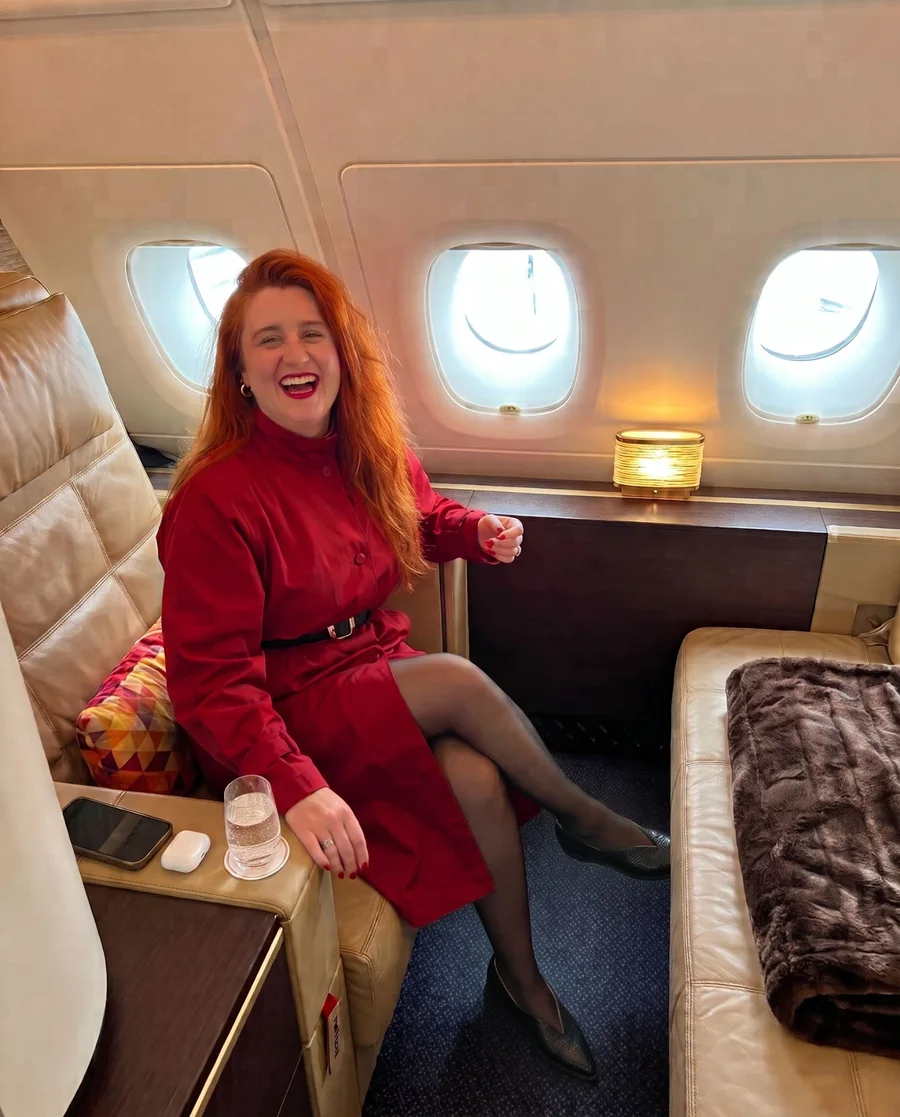
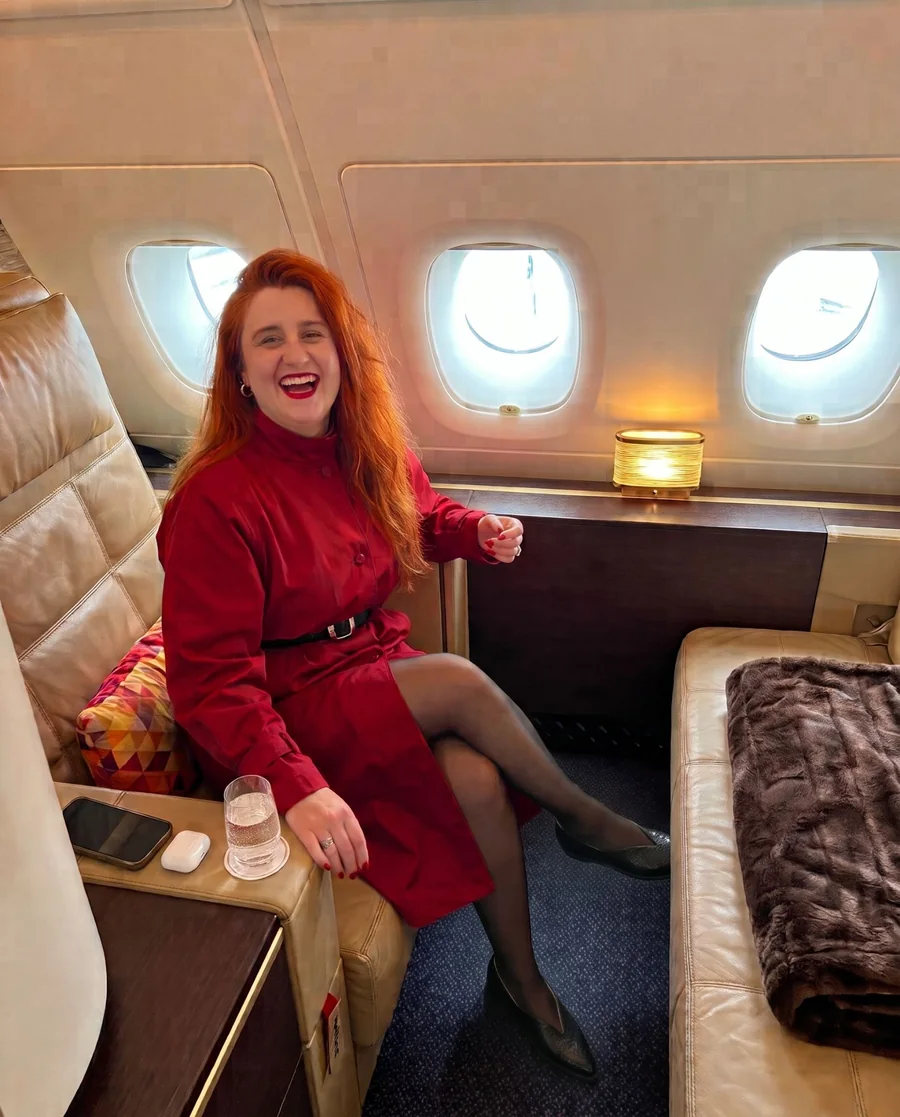
Final section: new First Class photo shown in full, invite moved off the bottom right
- The photo is shown at its own proportions (no side crop).
- Desktop: the calendar invite sits off the photo's lower-left corner, below it, and
  the How We Grow mark moves to the top right, so the bottom right (her legs, the
  ottoman and blanket) is clear.
- Tablet and phone: the invite is narrower and shifted left with a small overlap.

Claude-Session: https://claude.ai/code/session_01MxqKXt8jC4twN2icxWpMeU

diff --git a/index.html b/index.html
@@ -1819,6 +1819,17 @@ footer.has-vil{position:relative}
 .claim .pic .bk-fsea{position:absolute;left:-25%;right:-25%;bottom:-4%;height:20%;z-index:0;border-radius:0 0 30px 30px;background:linear-gradient(180deg,#9DBEDD,#7EA6D0);-webkit-mask-image:linear-gradient(90deg,transparent,#000 18%,#000 82%,transparent);mask-image:linear-gradient(90deg,transparent,#000 18%,#000 82%,transparent)}
 .claim .pic .fr,.claim .pic .mk{position:relative;z-index:1}
 .claim .pic .mk{position:absolute}
+/* final section: the photo shows in full; the invite sits off its lower-left edge (over the console), the mark top right */
+@media (min-width:981px){
+  .claim .pic{max-width:420px;margin-bottom:60px}
+  .claim .gi{right:auto!important;left:-12%;bottom:-24%;width:62%;transform:rotate(2deg)}
+  .claim .pic{margin-bottom:120px}
+  .claim .pic .mk{left:auto!important;right:-34px;top:-30px;bottom:auto!important;transform:rotate(10deg)}
+}
+@media (max-width:980px){
+  .claim .gi{width:78%!important;margin:-5% auto 0 -6%!important;transform:rotate(-2deg)}
+  .claim .pic .mk{left:auto!important;right:-14px;top:-24px;bottom:auto!important}
+}
 /* where are you right now: whichever card you pick, the plan rises behind the button; each card stands on an arch
    in its own colour (the job blue, her own work pink, both yellow) */
 .sitgo{position:relative;padding-top:40px;margin-top:6px}
@@ -2243,7 +2254,7 @@ footer{background-image:url(img/vip/paint/tx-grain.webp);background-size:256px}
 .claim .pic .fr{position:relative;padding:2px;border-radius:26px;
   background:linear-gradient(150deg,#e9ebee 0%,#b3b7be 30%,#e1e3e7 55%,#9fa4ac 80%,#d6d9dd 100%);
   box-shadow:0 0 0 1px rgba(40,42,48,.4),0 2px 3px rgba(26,20,18,.18),0 30px 50px -22px rgba(60,40,25,.55)}
-.claim .pic .fr img{display:block;aspect-ratio:3/4;object-position:50% 30%;border:7px solid #0e0e10;border-top-width:9px;border-radius:24px;background:#0e0e10}
+.claim .pic .fr img{display:block;aspect-ratio:1611/2000;object-position:50% 40%;border:7px solid #0e0e10;border-top-width:9px;border-radius:24px;background:#0e0e10}
 .claim .pic .fr:after{content:"";position:absolute;left:50%;top:5px;width:4px;height:4px;margin-left:-2px;border-radius:50%;
   background:radial-gradient(circle at 35% 35%,#41537a,#08090c 65%)}
 .claim .pic .fr:before{content:"";position:absolute;inset:9px 9px 9px 9px;border-radius:17px;pointer-events:none;z-index:1;
@@ -2920,7 +2931,7 @@ html.bdg-js .bdg.in{animation:bdgIn .6s cubic-bezier(.2,1.5,.4,1) both}
     <div class="claim">
       <div class="pic" data-r>
         <i class="bd sun bk-rise" aria-hidden="true"><b class="r"></b><b class="d"></b></i>
-        <div class="fr"><img src="img/ana-cabin-3.webp" alt="Ana Calin in First Class" width="900" height="1117" loading="lazy"></div>
+        <div class="fr"><img src="img/ana-cabin-3.webp?v=2" alt="Ana Calin in First Class" width="900" height="1117" loading="lazy"></div>
         <img class="mk" src="img/mark.png" alt="" width="96" height="96" loading="lazy">
         <!-- the invite, as Google Calendar shows it, in her colours: a cursor answers "Yes" -->
         <div class="gi" aria-hidden="true"><div class="gi-in">
